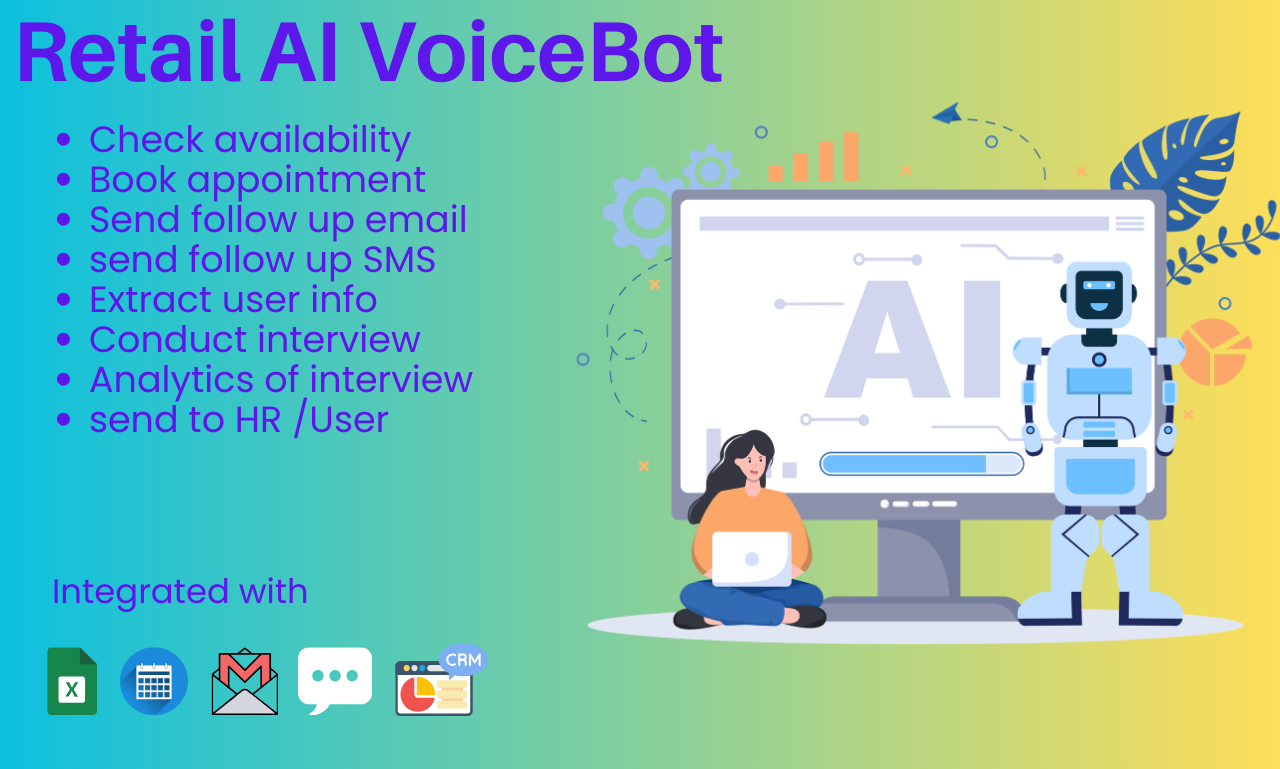
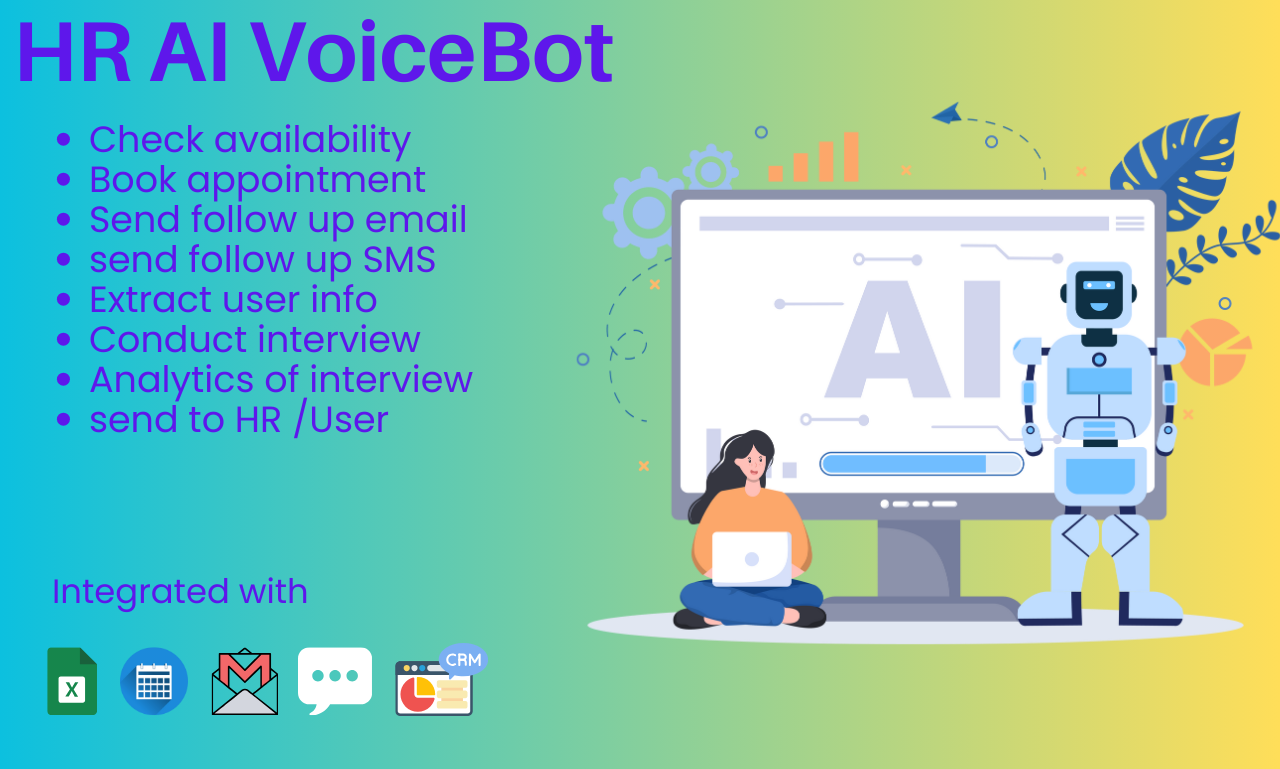
new

Changed region(s): [[0.0312, 0.0, 0.5625, 0.1248]]

diff --git a/src/App.jsx b/src/App.jsx
@@ -8,9 +8,11 @@ import Buycar from "./assets/13.png"
 import sellcar from "./assets/7.png"
 import hotel from "./assets/8.png"
 import restaurant from "./assets/9.png"
+import retail from "./assets/10.png"
 import fitness from "./assets/14.png"
-import retail from "./assets/11.png"
+import hr from "./assets/11.png"
 import solar from "./assets/12.png"
+import realestate2 from "./assets/realestate2.png"
 
 
 // Header
@@ -28,7 +30,7 @@ const Header = () => {
 // Voice Bot Tile
 const VoiceBotTile = ({ name, description, image, href }) => {
   return (
-    <a href={href} className="block  bg-white shadow-md rounded-lg overflow-hidden">
+    <a href={href} className="block  bg-white shadow-md rounded-md overflow-hidden">
       <div className="h-48 ">
         <img src={image} alt={name} className="w-full h-full " />
       </div>
@@ -52,7 +54,7 @@ const VoiceBotSection = () => {
           name: 'Healthcare',
           description: 'Check availability, book appointments, send follow-up emails, and extract user information.',
           image: healthcare, // Correctly imported image
-          href: '#',
+          href: 'https://www.fiverr.com/s/YR6pq3z',
         },
         
       ]
@@ -64,13 +66,13 @@ const VoiceBotSection = () => {
           name: 'English Examiner',
           description: 'Conduct interviews, analyze skills, send results, and follow up with users.',
           image: english,
-          href: '#'
+          href: 'https://www.fiverr.com/s/YR6pq3z'
         },
         {
           name: 'Play School',
           description: 'Simplifies managing preschool interactions by handling appointment bookings, follow-ups via email and SMS, user information collection.',
           image: playschoool,
-          href: '#'
+          href: 'https://www.fiverr.com/s/YR6pq3z'
         }
       ]
     },
@@ -81,7 +83,7 @@ const VoiceBotSection = () => {
           name: 'Legal',
           description: 'Handle client intake, schedule appointments, update status, and manage FAQs.',
           image: legal,
-          href: '#'
+          href: 'https://www.fiverr.com/s/YR6pq3z'
         }
       ]
     },
@@ -92,13 +94,13 @@ const VoiceBotSection = () => {
           name: 'Real Estate 1',
           description: 'Check availability, book appointments, filter preferred properties in realtime, and send follow-up SMS.',
           image: realestate,
-          href: '#'
+          href: 'https://www.fiverr.com/s/YR6pq3z'
         },
         {
           name: 'Real Estate 2',
           description: 'Check availability, book appointments and send follow-up SMS.',
-          image: realestate,
-          href: '#'
+          image: realestate2,
+          href: 'https://www.fiverr.com/s/YR6pq3z'
         }
       ]
     },
@@ -109,13 +111,13 @@ const VoiceBotSection = () => {
           name: 'Buy a car',
           description: 'Qualify leads, schedule appointments, recommend cars, and assist with inquiries.',
           image: Buycar,
-          href: '#'
+          href: 'https://www.fiverr.com/s/YR6pq3z'
         },
         {
           name: 'Sell a car',
           description: 'Qualify leads, schedule appointments, recommend cars, and assist with inquiries to sell a car.',
           image: sellcar,
-          href: '#'
+          href: 'https://www.fiverr.com/s/YR6pq3z'
         }
       ]
     },
@@ -126,13 +128,13 @@ const VoiceBotSection = () => {
           name: 'Hotel',
           description: 'Booking and Reservation Management, Check-In and Check-Out Assistance, General Inquiry Handling, Event and Conference Management, Services and Amenities, Personalized Recommendations, Real-Time Notifications.',
           image: hotel,
-          href: '#'
+          href: 'https://www.fiverr.com/s/YR6pq3z'
         },
         {
           name: 'Restaurant',
           description: 'Reservation Management, Order Taking and Pick-Up Scheduling, Menu Assistance, Event Bookings, Customer Support and FAQs, Real-Time Updates, Follow-Up.',
           image: restaurant,
-          href: '#'
+          href: 'https://www.fiverr.com/s/YR6pq3z'
         }
       ]
     },
@@ -143,7 +145,7 @@ const VoiceBotSection = () => {
           name: 'Fitness',
           description: 'Check availability, book appointments, send follow-up emails or SMS, extract user info, and enable call forwarding.',
           image: fitness,
-          href: '#'
+          href: 'https://www.fiverr.com/s/YR6pq3z'
         }
       ]
     },
@@ -154,7 +156,7 @@ const VoiceBotSection = () => {
           name: 'Retail',
           description: 'Answering FAQs, providing product information, account management, order tracking, order assistance, product suggestions, and support for returns and refunds.',
           image: retail,
-          href: '#'
+          href: 'https://www.fiverr.com/s/YR6pq3z'
         }
       ]
     },
@@ -165,7 +167,7 @@ const VoiceBotSection = () => {
           name: 'Solar',
           description: 'Check availability, book appointments, send follow-up emails or SMS, extract user info, and provide detailed product information.',
           image: solar,
-          href: '#'
+          href: 'https://www.fiverr.com/s/YR6pq3z'
         }
       ]
     },
@@ -173,17 +175,12 @@ const VoiceBotSection = () => {
       category: 'HR',
       bots: [
         {
-          name: 'HR Interview Scheduling',
+          name: 'HR Interview Scheduling and Conducting',
           description: 'Check availability, book appointments, send follow-up emails or SMS, and extract user info.',
-          image: '/hr-scheduling.jpg',
-          href: '#'
+          image: hr,
+          href: 'https://www.fiverr.com/s/YR6pq3z'
         },
-        {
-          name: 'HR Interview Conducting',
-          description: 'Conduct interviews, analyze interview results, and send updates to HR or users.',
-          image: '/hr-conducting.jpg',
-          href: '#'
-        }
+       
       ]
     }
     
